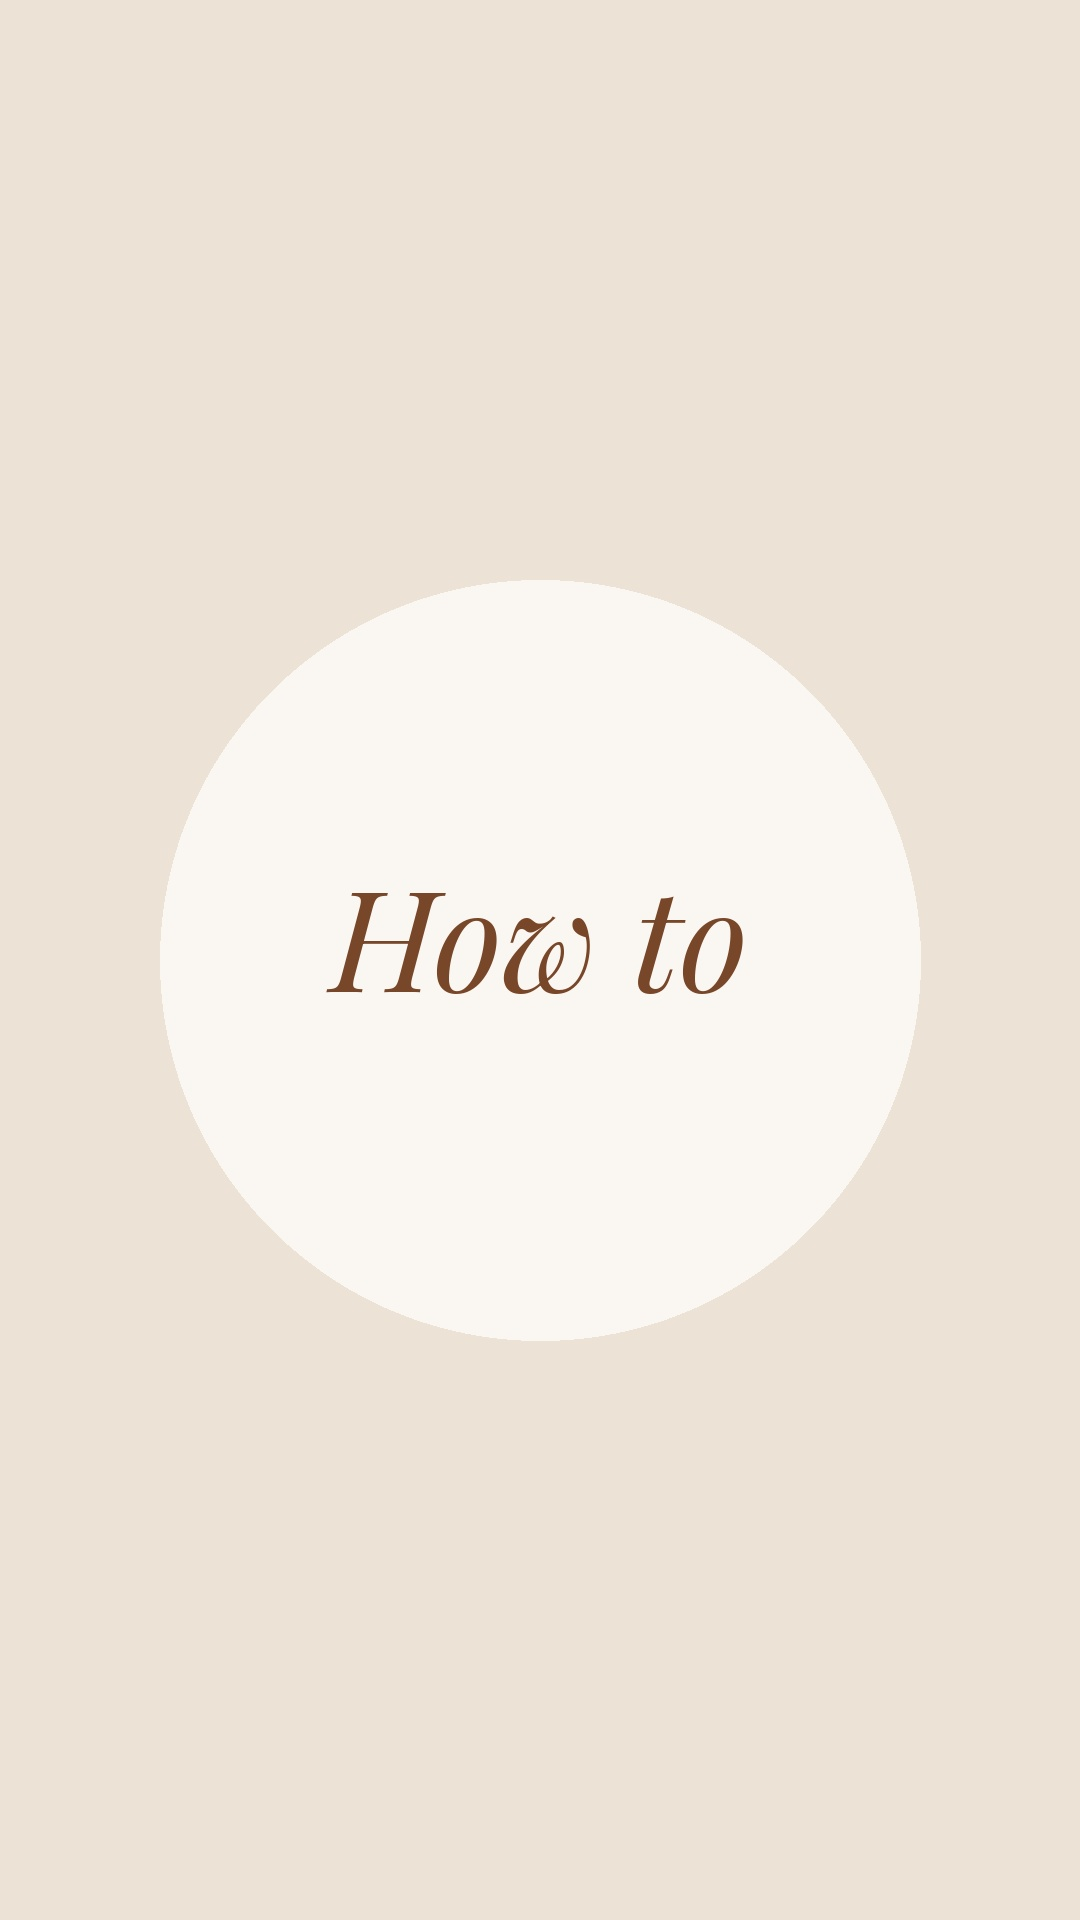
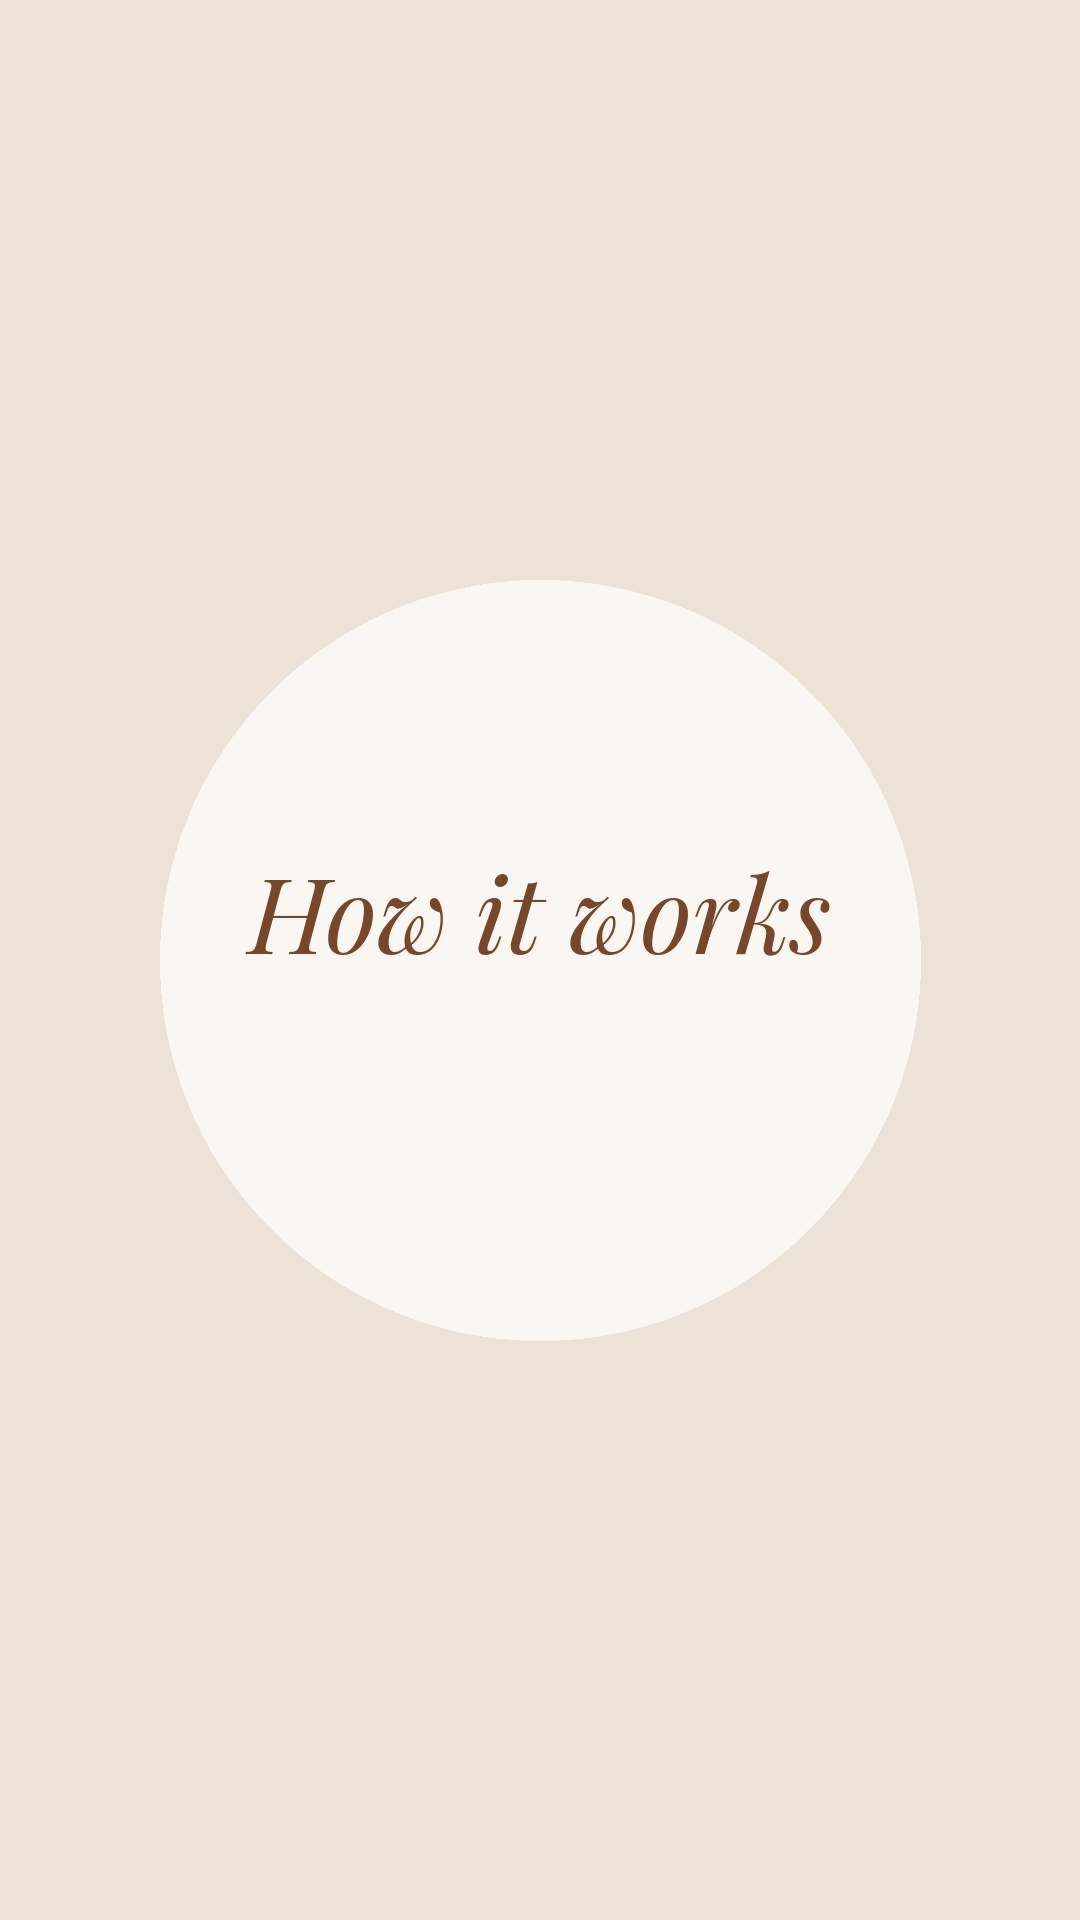
Flame: 3-section highlight cover options
Claude-Session: https://claude.ai/code/session_01QDySMycWWC4t7PJ5sLCF68

Changed region(s): [[0.2139, 0.4375, 0.7639, 0.5312]]

diff --git a/projects/flame_dec/gen_hl_covers.py b/projects/flame_dec/gen_hl_covers.py
@@ -6,7 +6,7 @@ ROOT = os.path.abspath(os.path.join(os.path.dirname(__file__), "../.."))
 P = ROOT + "/media/flame/photos/"; O = ROOT + "/media/flame/highlights/covers/"; os.makedirs(O, exist_ok=True)
 PF = ROOT + "/assets/fonts/PlayfairDisplay.ttf"; PFI = ROOT + "/assets/fonts/PlayfairDisplay-Italic.ttf"
 W, H, R = 1080, 1920, 380
-SEC = [("shop", "Shop", "p14"), ("howto", "How to", "p18"), ("colors", "Colors", "p20"), ("gift", "Gift", "p02"), ("faq", "FAQ", "p15"), ("cozy", "Cozy", "p13")]
+SEC = [("order", "Order", "p14"), ("howto", "How it works", "p18"), ("faq", "FAQ", "p15")]
 def crop_center(im, cx, cy, size):
     return im.crop((cx - size // 2, cy - size // 2, cx + size // 2, cy + size // 2))
 def canvas(bg): return Image.new("RGB", (W, H), bg)
@@ -20,7 +20,7 @@ for key, label, ph in SEC:
 # B — розмите полум'я + тонка іконка
 LW = 14; WH = (255, 255, 255)
 def ic(d, key, x, y):
-    if key == "shop":
+    if key == "order":
         d.rounded_rectangle([x - 110, y - 50, x + 110, y + 150], 26, outline=WH, width=LW); d.arc([x - 60, y - 150, x + 60, y - 20], 180, 360, fill=WH, width=LW)
     elif key == "howto":
         d.arc([x - 100, y - 30, x + 100, y + 170], -20, 200, fill=WH, width=LW); d.line([(x - 94, y + 36), (x, y - 160), (x + 94, y + 36)], fill=WH, width=LW, joint="curve")
@@ -44,11 +44,11 @@ for key, label, ph in SEC:
 for key, label, ph in SEC:
     c = canvas((236, 226, 214)); d = ImageDraw.Draw(c)
     d.ellipse([W // 2 - R, H // 2 - R, W // 2 + R, H // 2 + R], fill=(250, 246, 241))
-    f = ImageFont.truetype(PFI, 170 if len(label) < 6 else 140); tw = d.textlength(label, font=f)
+    f = ImageFont.truetype(PFI, 170 if len(label) < 6 else 105); tw = d.textlength(label, font=f)
     d.text((W // 2 - tw / 2, H // 2 - 120), label, font=f, fill=(120, 70, 40))
     c.save(O + f"C_{key}.jpg", quality=95)
 # прев'ю кружечками
-prev = Image.new("RGB", (6 * 170 + 120, 3 * 190), (255, 255, 255)); dd = ImageDraw.Draw(prev)
+prev = Image.new("RGB", (3 * 170 + 120, 3 * 190), (255, 255, 255)); dd = ImageDraw.Draw(prev)
 for r, v in enumerate("ABC"):
     dd.text((10, r * 190 + 70), v, fill=(0, 0, 0), font=ImageFont.truetype(PF, 60))
     for i, (key, label, ph) in enumerate(SEC):
